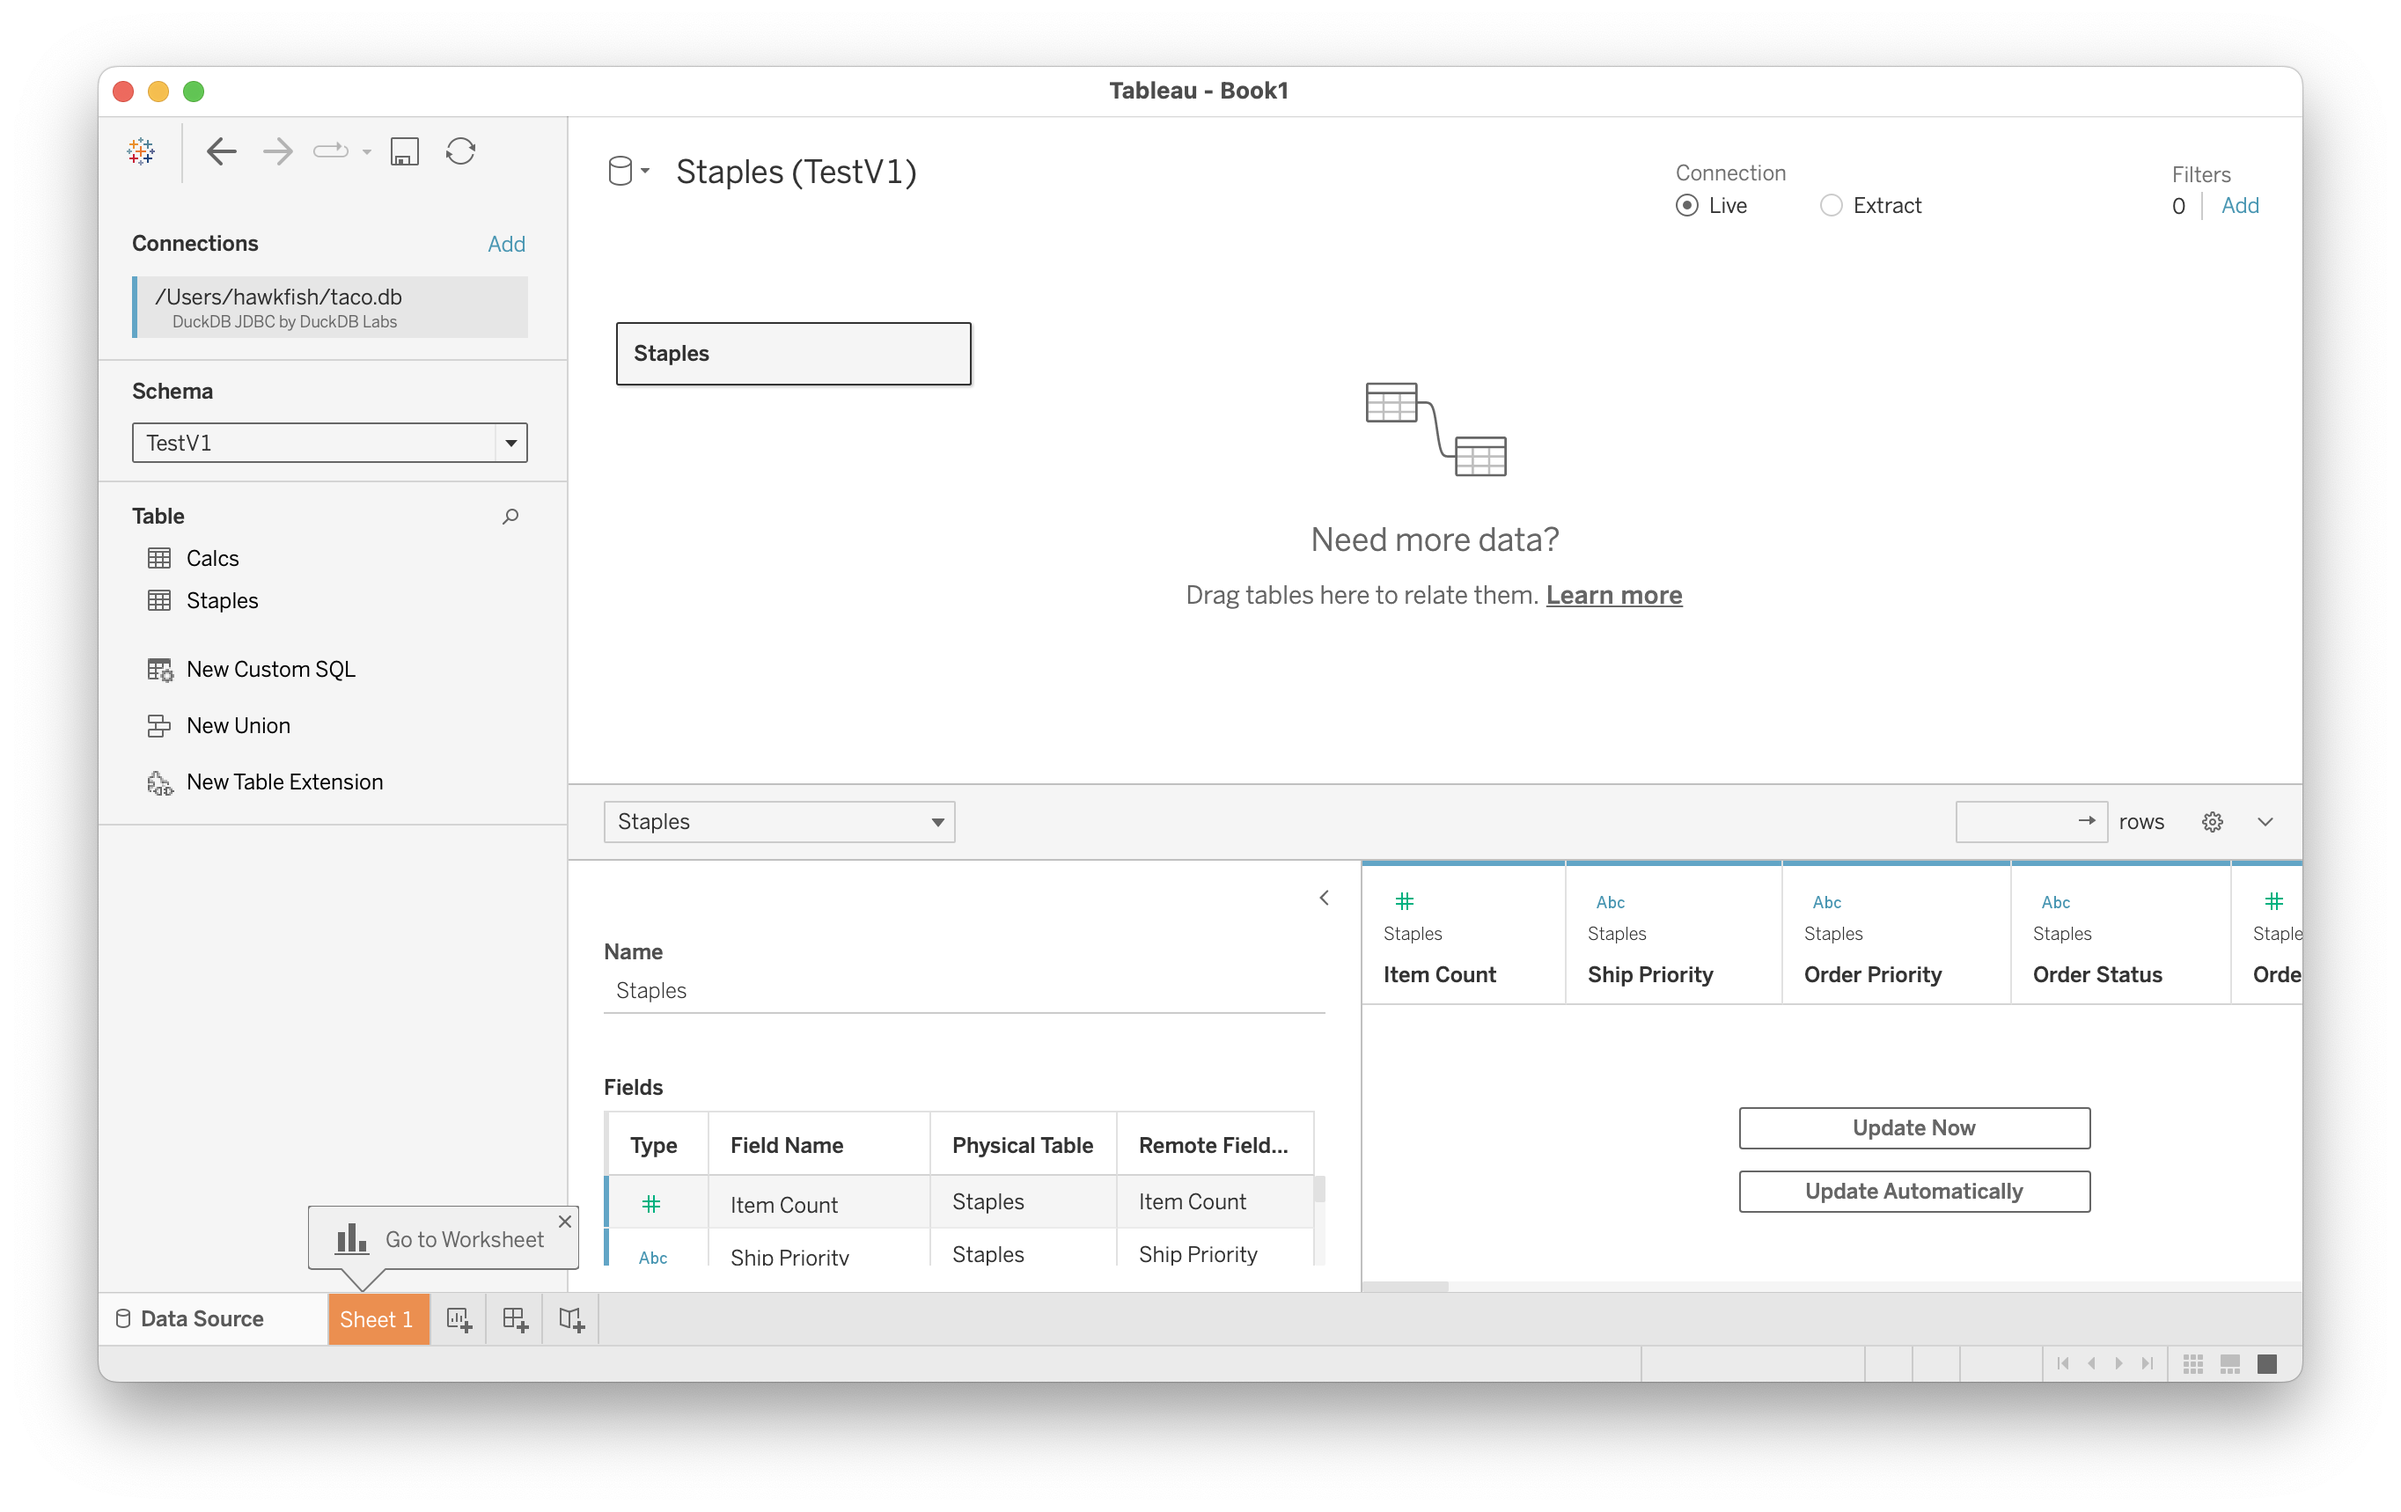
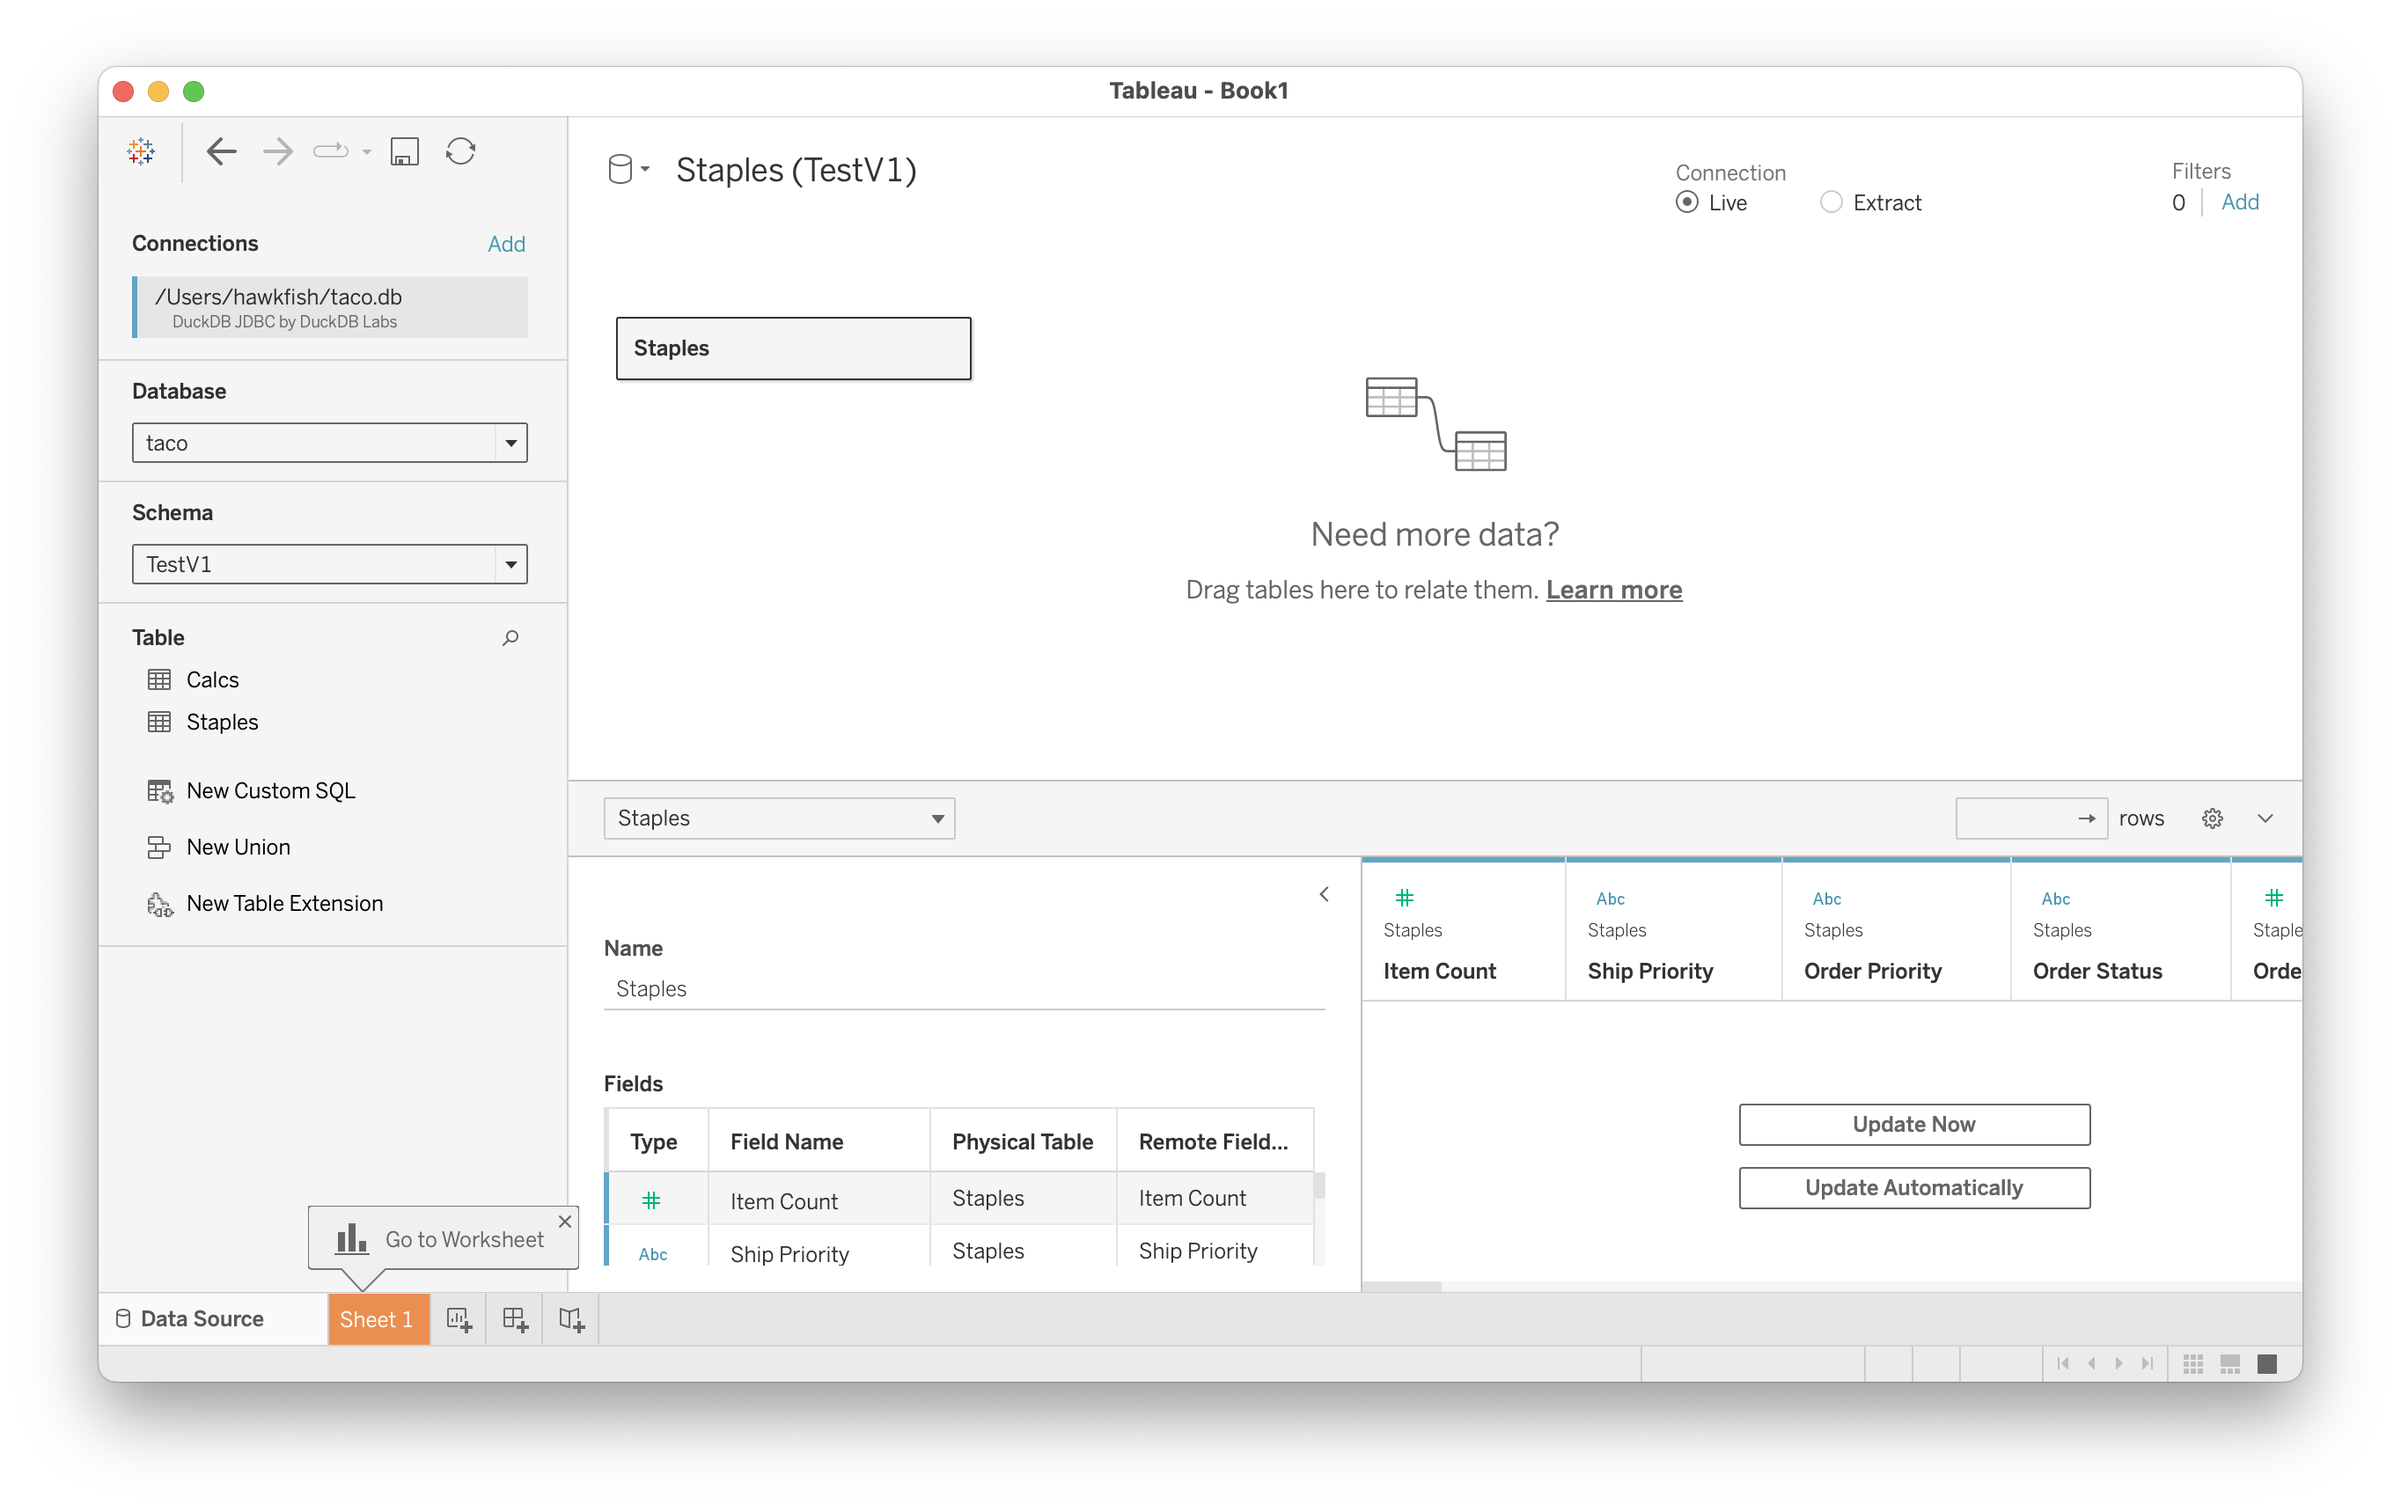
Enable database selection in the data source editor.

diff --git a/README.md b/README.md
@@ -42,6 +42,9 @@ and perform all the basic data cleaning operations it provides for creating a da
 
 <img width="1364" alt="Datasource Editing" src="./images/taco-datasource.png">
 
+Note that DuckDB has a three-level naming system (`database.schema.table`)
+so you will need to select the schema for the file.
+
 ## Initial SQL
 
 Tableau allows connections to run initial SQL.
